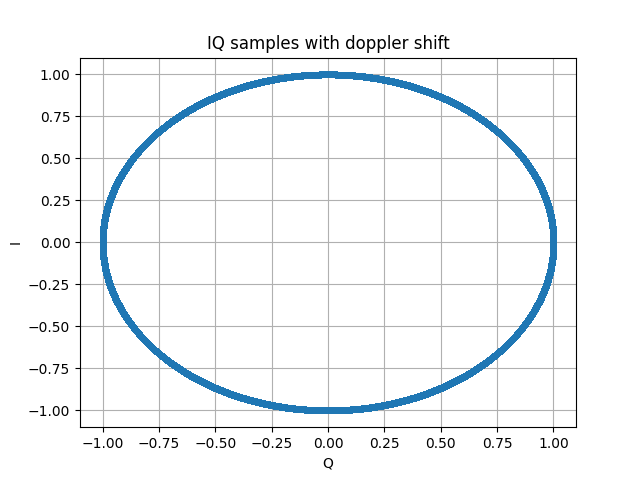
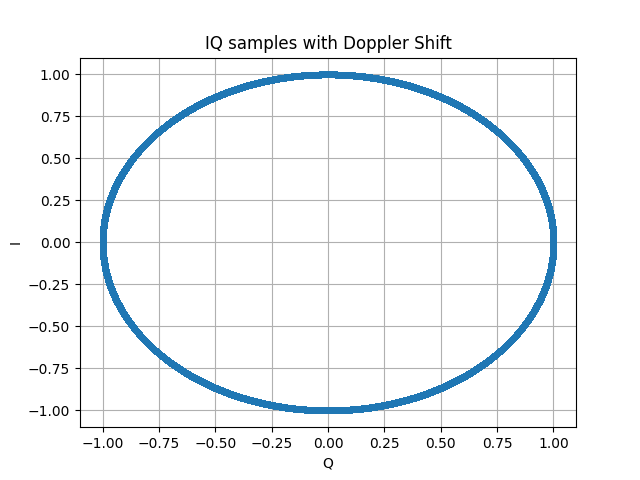
uploading plots

Changed region(s): [[0.3125, 0.0625, 0.7188, 0.125]]

diff --git a/main.py b/main.py
@@ -19,7 +19,7 @@ def simulate_doppler_shift(ds_duration, input_bits, freq_min, freq_max):
 
     doppler_shift_vector = []
 
-    max_length = input_bits * 4092 * 2 /(2*BAND-freq_max) * F_S
+    max_length = input_bits * PRN_WITH_BOC_LENGHT /(2*CHIP_RATE-freq_max) * F_S
 
     doppler_shift_vector = np.random.uniform(freq_min,freq_max,math.ceil(max_length/total_points))
 
@@ -73,7 +73,7 @@ def simulate_path_loss(pl_duration, input_bits, val_min, val_max, freq_max):
 
     j = 0
 
-    max_length = input_bits * 4092 * 2 /(2*BAND-freq_max) * F_S
+    max_length = input_bits * PRN_WITH_BOC_LENGHT /(2*CHIP_RATE-freq_max) * F_S
 
     while(j<max_length):
         x = np.random.uniform(val_min,val_max,1)[0]
@@ -101,15 +101,14 @@ if __name__ == '__main__':
     BOC_SEQUENCE_INVERSE = codes['boc_sequence_inverse']
     PRN_SEQUENCE = codes['prn_sequence']
     PRN_SEQUENCE_INVERSE = codes['prn_sequence_inverse']
+    PRN_LENGHT = codes['prn_lenght']
+    PRN_WITH_BOC_LENGHT = PRN_LENGHT * 2
     
     # Chanel costants
 
     BOLTZMANN_COSTANT = 1.3809649 * pow(10,-23)
-    TEMPERATURE = 300
-    BAND = 1.023 * pow(10,6)
-    N_0 = BOLTZMANN_COSTANT*TEMPERATURE
+    CHIP_RATE = 1.023 * pow(10,6)
     F_S = 4.092*pow(10,6) # Sampling frequency
-    V_FS = pow(10,-4)
     BIT_FOR_IQ = 16
 
     # Channel Parameters
@@ -120,22 +119,29 @@ if __name__ == '__main__':
     ds_freq_min_default = 2000
     pl_val_min_default = -6
     pl_val_max_default = -5
+    temperature_default = 300
 
     print("\n### Satellite transmitter simulator ###\n")
 
-    ds_duration = float(input("Set Doppler shift duration (" + str(ds_duration_default) + "): ") or ds_duration_default)
+    ds_duration = float(input("Set update period of doppler shift [s] (" + str(ds_duration_default) + "): ") or ds_duration_default) # Set update period of doppler shift (s) 
 
-    pl_duration = float(input("Set Path Loss duration: (" + str(pl_duration_default) + "): ") or pl_duration_default)
+    pl_duration = float(input("Set update period of doppler shift [s] (" + str(pl_duration_default) + "): ") or pl_duration_default)
 
-    ds_freq_max = int(input("Set Doppler shift max freq: (" + str(ds_freq_max_default) + "): ") or ds_freq_max_default)
+    ds_freq_max = int(input("Set Doppler shift max freq [Hz] (" + str(ds_freq_max_default) + "): ") or ds_freq_max_default)
 
-    ds_freq_min = int(input("Set Doppler shift min freq: (" + str(ds_freq_min_default) + "): ") or ds_freq_min_default)
+    ds_freq_min = int(input("Set Doppler shift min freq [Hz] (" + str(ds_freq_min_default) + "): ") or ds_freq_min_default)
 
-    pl_val_min = int(input("Set Path Loss min value: (" + str(pl_val_min_default) + "): ") or pl_val_min_default)
+    pl_val_min = float(input("Set Path Loss gain min value [dB] (" + str(pl_val_min_default) + "): ") or pl_val_min_default)
 
-    pl_val_max = int(input("Set Path Loss max value: (" + str(pl_val_max_default) + "): ") or pl_val_max_default)
+    pl_val_max = float(input("Set Path Loss gain max value [dB] (" + str(pl_val_max_default) + "): ") or pl_val_max_default)
 
-    pathLossFlag = input("Insert Path Loss? (Y/N)")
+    temperature =  float(input("Set noise temperature value [K] (" + str(temperature_default) + "): ") or temperature_default)
+
+    N_0 = BOLTZMANN_COSTANT*temperature
+
+    V_FS = pl_val_max
+
+    pathLossFlag = input("Insert Path Loss? (Y)")
 
     if(pathLossFlag.lower() == "y"):
         pathLossFlag = True
@@ -144,7 +150,7 @@ if __name__ == '__main__':
     else:
         pathLossFlag = True
 
-    awgnFlag = input("Insert AWGN? (Y/N)")
+    awgnFlag = input("Insert AWGN? (Y)")
 
     if(awgnFlag.lower() == "y"):
         awgnFlag = True
@@ -153,7 +159,7 @@ if __name__ == '__main__':
     else:
         awgnFlag = True
 
-    writeOutput = input("Write IQ samples output? (Y/N)")
+    writeOutput = input("Write IQ samples output? (N)")
 
     if(writeOutput.lower() == "y"):
         writeOutput = True
@@ -162,10 +168,16 @@ if __name__ == '__main__':
     else:
         writeOutput = False
 
+    #TODO computing input size
+
+
+
 
     ds_wave_list, doppler_shift_vector = simulate_doppler_shift(ds_duration, 180, ds_freq_min, ds_freq_max)
 
     path_loss_vector = simulate_path_loss(pl_duration, 180, pow(10, pl_val_min), pow(10,pl_val_max), ds_freq_max)
+
+
 
     bit_counter = 0
 
@@ -224,8 +236,8 @@ if __name__ == '__main__':
 
         for i in range(len(boc_sequence)):
             index = math.floor(current_time/ds_duration)
-            current_time += 1/(2*BAND+doppler_shift_vector[index])
-            repetitions.append(1/(2*BAND+doppler_shift_vector[index])*F_S)
+            current_time += 1/(2*CHIP_RATE+doppler_shift_vector[index])
+            repetitions.append(1/(2*CHIP_RATE+doppler_shift_vector[index])*F_S)
 
         
 
@@ -244,27 +256,22 @@ if __name__ == '__main__':
 
     iqPlot(boc_output, "IQ samples of the BOC(1,1)", len(boc_output)-1)
 
-    signal = boc_output * ds_wave_list[:len(boc_output)]
+    signal = boc_output * ds_wave_list[:len(boc_output)] 
 
-    iqPlot(signal, "IQ samples with doppler shift", len(signal)-1)
-
-
-    plt.scatter(np.arange(0,len(signal[815000:820000])), np.real(signal[815000:820000]))
-    plt.title("Signal with Doppler Shift")
-    plt.show()
+    iqPlot(signal, "IQ samples with Doppler Shift", len(signal)-1)
 
     # AWGN simulation
 
-    awgn_vector = (np.random.randn(len(signal)) + 1j*np.random.randn(len(signal))) * np.sqrt(N_0*BAND/2)
+    awgn_vector = (np.random.randn(len(signal)) + 1j*np.random.randn(len(signal))) * np.sqrt(N_0/2)
 
 
     if(pathLossFlag):
 
         # Apply Path Loss
 
-        signal = signal * path_loss_vector[:len(signal)]
+        signal = signal * np.sqrt(path_loss_vector[:len(signal)])
 
-        iqPlot(signal, "IQ samples with Path Loss", len(signal)-1)
+        iqPlot(signal, "IQ samples with Doppler Shift and Path Loss", len(signal)-1)
     
     if(awgnFlag):
 
@@ -272,11 +279,15 @@ if __name__ == '__main__':
 
         signal = signal + awgn_vector
 
-        iqPlot(signal, "IQ samples with AWGN", len(signal)-1)
+        iqPlot(signal, "IQ samples with Doppler Shift, Path Loss and AWGN", len(signal)-1)
 
     plt.scatter(np.arange(0,len(signal[814000:820000])), np.real(signal[814000:820000]))
-    plt.title("Signal with Path Loss and AWGN")
+    plt.title("Real part of the sampled signal\n with Doppler shift, Path loss and AWGN")
+    plt.xlabel("n (sample)")
+    plt.ylabel("amplitude")
+    plt.savefig("plots/sampled signal with doppler shift - path loss - awgn.png")
     plt.show()
+
 
     if(writeOutput):
 
@@ -284,12 +295,9 @@ if __name__ == '__main__':
 
         # IQ samples writing
 
-        counter = 0
-
         for signal_bit in signal:
             real_sample = int(quantize_uniform(np.array([np.real(signal_bit)]), -V_FS, V_FS,pow(2,BIT_FOR_IQ))[0])
             imag_sample = int(quantize_uniform(np.array([np.imag(signal_bit)]), -V_FS, V_FS,pow(2,BIT_FOR_IQ))[0])
             output_file.write(real_sample.to_bytes(2,byteorder='big',signed=True))
             output_file.write(imag_sample.to_bytes(2,byteorder='big',signed=True))
             output_file.flush()
-            counter += 1

diff --git a/reader.py b/reader.py
@@ -5,6 +5,8 @@ output_file = open("output.bin","rb")
 
 counter = 0
 
+print("Print of the first 32 IQ samples of the file output.bin")
+
 while True:
     if(counter>32):
         break
